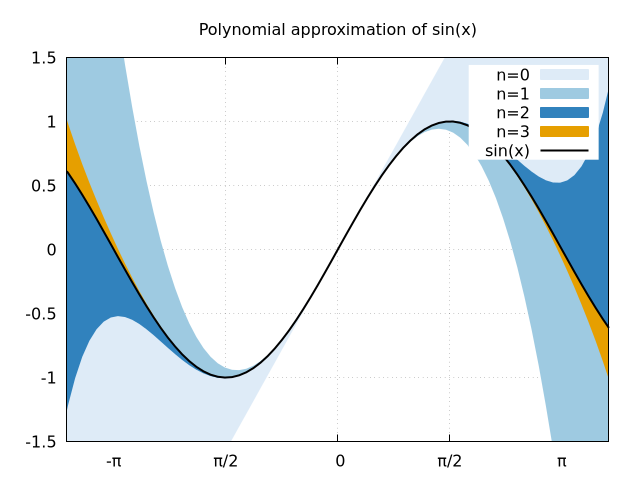
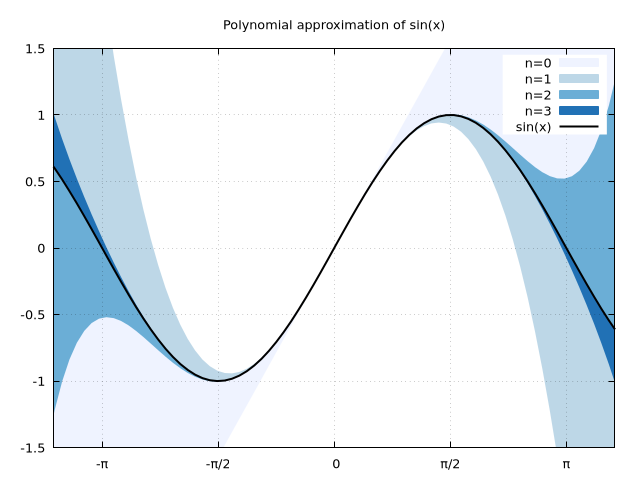
Updated

diff --git a/ChangeLog.md b/ChangeLog.md
@@ -1,45 +1,52 @@
 # Version 1.2.0 (not yet released)
 
 - New features:
-	* REPL mode: a new `Gnuplot.repl_init()` function is available to
+    * REPL mode: a new `Gnuplot.repl_init()` function is available to
       install a gnuplot REPL;
 
-	* `@gp` and `@gsp` now accepts a `Gnuplot.PlotElements` object,
+    * Implemented the "recipe" mechanism: the `recipe()` function can
+      now be extended to register new implicit recipes to display
+      data;
+
+    * `@gp` and `@gsp` now accepts a `Gnuplot.PlotElements` object,
       containing commands, data and plot specifications in a single
       argument;
 
-	* The `recipe()` function can be extended to register new implicit
-      recipes to display input data;
-
-	* The `linetypes` function now accept the `lw`, `ps` (to set the
+    * The `linetypes` function now accept the `lw`, `ps` (to set the
       line width and point size respectively), and the `dashed` (to
       use dashed patterns in place of solid lines) keywords;
 
-	* The new `Gnuplot.options.reset::Vector{String}` field allows to
+    * The new `Gnuplot.options.reset::Vector{String}` field allows to
       set initialization commands to be executed when a session is
       reset.  Unlike `Gnuplot.options.init`, these commands are saved
       in the session and can be saved into a script;
 
-	* New functions: `gpvars()` to retrieve all gnuplot variables,
+    * New functions: `gpvars()` to retrieve all gnuplot variables,
       `gpmargins()` to retrieve current plot margins (in screen
       coordinates, `gpranges()` to retrieve current plot axis ranges;
-	
-	* New keywords for `@gp` and `@gsp`: `lmargin`, `rmargin`,
-      `bmargin`, `tmargin`, `margins`, to set plot margins;
-	  
-- New recipes:
-	* to display histograms (as returned by `hist()`);
 
-    * to display images;
+    * New keywords for `@gp` and `@gsp`: `lmargin`, `rmargin`,
+      `bmargin`, `tmargin`, `margins`, to set plot margins;
+
+    * Implemented new implicit recipes to display histograms (as
+      returned by `hist()`) and images;
+
+    * Documentation updated;
+
+
+- Breaking changes:
+    * The 2D matrix are now sent to gnuplot in a column-major order,
+      to comply with Julia array layout;
+
 
 - Bugfix:
-	* When a `Vector{String}` is passed to `driver()` it used to be
-	modified, and couldn't be used again in a second call.  Now the
-	original is preserved;
+    * When a `Vector{String}` is passed to `driver()` it used to be
+    modified, and couldn't be used again in a second call.  Now the
+    original is preserved;
 
-	* `contourlines()` used to return a single blanck line to
-	distinguish iso-contour lines, and this may cause problems in 3D
-	plot.  Now two blanck lines are returned;
+    * `contourlines()` used to return a single blanck line to
+    distinguish iso-contour lines, and this may cause problems in 3D
+    plot.  Now two blanck lines are returned;
 
 
 # Version 1.1.0 (released on: Apr. 09, 2020)

diff --git a/README.md b/README.md
@@ -14,9 +14,20 @@
 
 Install with:
 ```julia
-]add Gnuplot@1.1.0
+]add Gnuplot
 ```
 A working [gnuplot](http://gnuplot.sourceforge.net/) package must be installed on your platform.
+
+You may check the installed **Gnuplot.jl** version with:
+```julia
+]st Gnuplot
+```
+If the displayed version is not v1.1.0 you are probably having a dependency conflict. In this case try forcing installation of the latest version with:
+```julia
+]add Gnuplot@1.1.0
+```
+and check which package is causing the conflict.
+
 
 Test package:
 ```julia
@@ -43,9 +54,9 @@ save("parabola.gp")  # => save a script file with both data and command to re-cr
 ```julia
 x = -2pi:0.1:2pi
 approx = fill(0., length(x));
-@gp t="Polynomial approximation of sin(x)"  key="opaque" linetypes(:Blues_3)
+@gp tit="Polynomial approximation of sin(x)" key="opaque" linetypes(:Blues_4)
 @gp :- "set encoding utf8" raw"""set xtics ('-π' -pi, '-π/2' -pi/2, 0, 'π/2' pi/2, 'π' pi)"""
-@gp :- xr=3.8.*[-1, 1] yr=[-1.5,1.5] "set grid"
+@gp :- xr=3.8.*[-1, 1] yr=[-1.5,1.5] "set grid front"
 @gp :- x sin.(x) approx .+=  x          "w filledcurve t 'n=0' lt 1"
 @gp :- x sin.(x) approx .+= -x.^3/6     "w filledcurve t 'n=1' lt 2"
 @gp :- x sin.(x) approx .+=  x.^5/120   "w filledcurve t 'n=2' lt 3"

diff --git a/docs/src/install.md b/docs/src/install.md
@@ -8,11 +8,26 @@ If `gnuplot` is not available in your platform you can still use **Gnuplot.jl** 
 ## Package installation
 In the Julia REPL type:
 ```julia-repl
-julia> ]add Gnuplot@1.2.0
+julia> ]add Gnuplot
 ```
-The `]` character starts the Julia [package manager](https://julialang.github.io/Pkg.jl/v1/getting-started.html#Basic-Usage-1). Then hit backspace key to return to Julia REPL.
+The `]` character starts the Julia [package manager](https://julialang.github.io/Pkg.jl/v1/getting-started.html#Basic-Usage-1). Hit backspace key to return to Julia prompt.
+
 
 ## Check installation
+
+Check **Gnuplot.jl** version with:
+```julia-repl
+julia> ]st Gnuplot
+Status `~/.julia/environments/v1.4/Project.toml`
+  [dc211083] Gnuplot v1.2.0
+```
+If the displayed version is not `v1.2.0` you are probably having a dependency conflict.  In this case try forcing installation of the latest version with:
+```julia-repl
+julia> ]add Gnuplot@1.2.0
+```
+and check which package is causing the conflict.
+
+
 
 Check execution and version of the underlying `gnuplot` process:
 ```@repl
